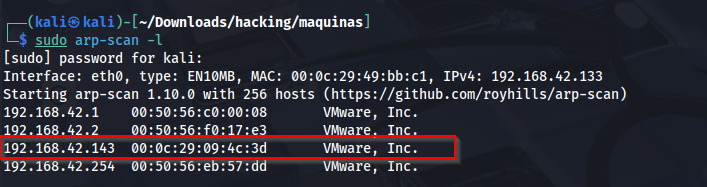
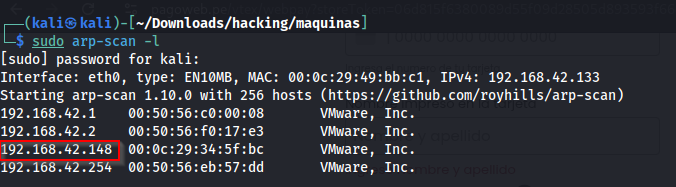
exec

Changed region(s): [[0.0, 0.0802, 0.932, 0.6417], [0.0, 0.6684, 0.6524, 0.9358], [0.1864, 0.5615, 0.4038, 0.6417]]

diff --git a/Exec.md b/Exec.md
@@ -1,0 +1,31 @@
+# Máquina Exec
+
+### Reconocimiento de la Ip de la máquina víctima
+
+![alt text](image.png)
+
+### Puertos abiertos
+
+sudo nmap -sS --min-rate 6000 -p- --open -vvv -Pn 192.168.42.148
+
+![alt text](image-1.png)
+
+
+### Servicios y versiones
+
+sudo nmap -sVC --min-rate 6000 -p22,80 vvv -Pn 192.168.42.148
+
+![alt text](image-2.png)
+
+### Explotación
+
+
+### Escalar privilegios
+
+
+
+### user.txt
+
+
+### root.txt
+
